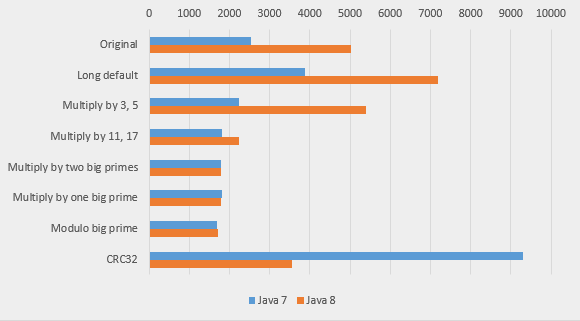
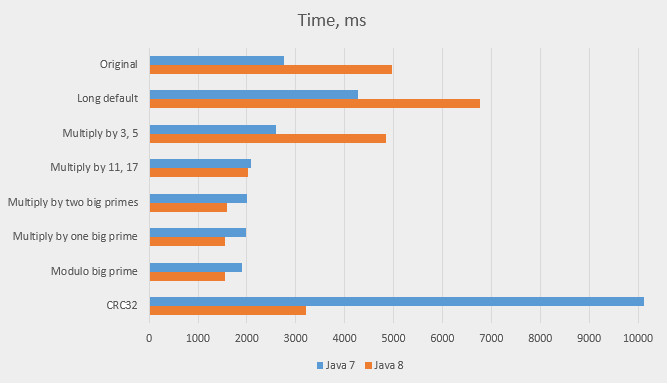
Some measurement results corrected

diff --git a/_posts/2015-04-24-game-of-life-hash-tables-and-hash-codes.md b/_posts/2015-04-24-game-of-life-hash-tables-and-hash-codes.md
@@ -401,7 +401,7 @@ There is also usual correctness check code, which isn't needed now but will be i
 measurement code. We'll run each performance test three times. Here is the run result:
 
     # java -server Life
-      Hash_Reference: time for 10000:  2701  2586  2543: 3932.4 frames/sec
+      Hash_Reference: time for 10000:  2937  2719  2763: 3619.3 frames/sec
 
 How good is it? Interestingly, it is of the same order of magnitude as the 3,200 fps I was talking
 about in the beginning of the article. However, the algorithms are of different nature, so the results aren't directly comparable.
@@ -479,7 +479,7 @@ an offset of `0x80000000` to all co-ordinates. This offset is only applied at in
 affect the main algorithm:
 
 {% highlight Java %}
-public static final int offset = 0x8000000;
+public static final int offset = 0x80000000;
 
 public static int x (long w)
 {
@@ -497,10 +497,11 @@ public static long fromPoint (int x, int y)
 }
 {% endhighlight %}
 
-The rest of the program stays virtually unchanged. Here is the result:
+The rest of the program stays virtually unchanged. We'll run the test alone -- comment out the test for `Point` in `main ()` and leave only
+the new one. This will remove any possible effects one test can have on another. Here is the result:
 
     # java -server Life
-           Hash_Long: time for 10000:  3910  3901  3887: 2572.7 frames/sec
+           Hash_Long: time for 10000:  4290  4237  4273: 2340.3 frames/sec
 
 What a surprise! The performance got worse. What went wrong? It seems very unlikely that operations with `long`,
 even boxed as `Long`, are slower than with our `Point` class. The general structure of the program is the same. What is the difference?
@@ -578,11 +579,11 @@ fact, the hash value will be exactly the same: 0x80000000 multiplied by 3 (or 5)
 and the two added together will cancel each other out.
 
 Since there is no more boxing, the code is a little bit longer, but it is also clearer and safer -- arbitrary number
-can't be passed as a point any more. Here is the result (I'll quote all three):
+can't be passed as a point any more. Again, I'll run it alone. Here is the result (I'll quote all three):
 
-      Hash_Reference: time for 10000:  2701  2586  2543: 3932.4 frames/sec
-           Hash_Long: time for 10000:  3910  3901  3887: 2572.7 frames/sec
-      Hash_LongPoint: time for 10000:  2340  2254  2243: 4458.3 frames/sec
+      Hash_Reference: time for 10000:  2937  2719  2763: 3619.3 frames/sec
+           Hash_Long: time for 10000:  4290  4237  4273: 2340.3 frames/sec
+      Hash_LongPoint: time for 10000:  2864  2651  2602: 3843.2 frames/sec
 
 This proves our theory. The version using `long` with the hash formula from `Point` is much faster than the one with
 the built-in hash function of `Long`. It is also a bit faster than the original `Point`-based version, which proves
@@ -791,9 +792,9 @@ private static void hashtest (Hash h)
     int nonzero_counts = b2.cardinality ();
     double avg_counts = (double) r.counts.size () / nonzero_counts;
 
-    System.out.printf ("Field size: %4d; slots used: %4d; avg=%5.1f\n",
+    System.out.printf ("Field size: %4d; slots used: %4d; avg=%5.2f\n",
                        r.field.size (), nonzero_field, avg_field);
-    System.out.printf ("Count size: %4d; slots used: %4d; avg=%5.1f\n",
+    System.out.printf ("Count size: %4d; slots used: %4d; avg=%5.2f\n",
                        r.counts.size (), nonzero_counts, avg_counts);
 }
 {% endhighlight %}
@@ -858,12 +859,15 @@ How about multiplying the entire `long` by some big enough prime number?
 
 {% highlight Java %}
 hashtest (new Hash () { public int hash (Point p) {
-                          long x = w(p.x, p.y) * 541725397157L;
+                          long x = fromPoint (p.x, p.y) * 541725397157L;
                           return lo(x) ^ hi(x);}} );
 {% endhighlight %}
 
-    Field size: 1034; slots used:  970; avg= 1.07
-    Count size: 3938; slots used: 3096; avg= 1.27
+Note that we can't ignore adding `OFFSET` any more; it affects the value of the hash function. That's why we use `fromPoint (p.x, p.y)`
+and not just `w (p.x, p.y)`:
+
+    Field size: 1034; slots used:  969; avg= 1.07
+    Count size: 3938; slots used: 3144; avg= 1.25
 
 One of the methods Knuth (_The art of computer programming, vol. 3, 6.4_) suggests is dividing by some prime number and getting a remainder.
 We need a number small enough to distribute remainders evenly, but big enough to generate sufficient number of
@@ -871,14 +875,14 @@ these remainders and prevent full hash conflicts.
 
 {% highlight Java %}
 hashtest (new Hash () { public int hash (Point p) {
-                          long x = w (p.x,  p.y);
+                          long x = fromPoint (p.x,  p.y);
                           return (int) (x % 946840871);}} );
 {% endhighlight %}
 
-    Field size: 1034; slots used:  978; avg= 1.06
-    Count size: 3938; slots used: 3201; avg= 1.23
+    Field size: 1034; slots used:  982; avg= 1.05
+    Count size: 3938; slots used: 3236; avg= 1.22
 
-It performs slightly better. However, division is expensive, which may cancel out any speed improvement caused by better hashing.
+It performs even better. However, division is expensive, which may cancel out any speed improvement caused by better hashing.
 
 Knuth also suggested using polynomial binary codes. There is one such code readily available in the **Java** library --
 `CRC32` (in package `java.util.zip`). 
@@ -899,13 +903,13 @@ static int crc_hash (long n)
 }
 
 hashtest (new Hash () { public int hash (Point p) {
-                          return crc_hash (w(p.x, p.y));}} );
+                          return crc_hash (fromPoint (p.x, p.y));}} );
 {% endhighlight %}
 
     Field size: 1034; slots used:  981; avg= 1.05
     Count size: 3938; slots used: 3228; avg= 1.22
 
-We've got some more progress. However, 1.22 still seems a bit high. We want 1.0! Is `CRC32` still not shuffling bits well?
+It also looks very good. However, 1.22 still seems a bit high. We want 1.0! Is `CRC32` still not shuffling bits well?
 Let's try the ultimate test: random numbers. Obviously, we're not planning of using them as real hash values, we'll
 just measure the number of used slots and the average chain size:
 
@@ -923,8 +927,8 @@ In fact, this is exactly what we'd expect from random numbers. Truly random sele
 occupied slot with the same probability as any other slot. The hash function must be rather _non-random_ to spread
 all the values over different slots. Let's look at probabilities.
 
-Some calculations
------------------
+Some high school mathematics
+----------------------------
 
 Let's define two random variables. Let <i>Num<sub>k</sub></i> be the number of non-empty slots in the table
 after _k_ insertions, and <i>Len<sub>k</sub></i> be the average chain size.
@@ -1106,7 +1110,8 @@ our formula is good enough to compute distributions and standard deviations:
 The values for <i>E[Num]</i> are the same as those computed before, which inspires confidence in our results.
 
 Let's have a look how far the values measured for various hash functions are from the expected values.
-Here are the data for the `field` structure (element count 1,034) collected in a table. The last column shows the distance, in sigmas, from
+Here are the data for the `field` structure (element count 1,034) collected in a table. The last column shows the distance,
+in sigmas (&sigma;&nbsp;=&nbsp;7.27) from
 the expected value (E[Num]&nbsp;=&nbsp;971.46):
 
 <table class="numeric">
@@ -1115,8 +1120,8 @@ the expected value (E[Num]&nbsp;=&nbsp;971.46):
 <tr><td class="label">2</td><td class="ttext">Multiply by 3, 5           </td><td>595</td><td>-376.46</td><td> -51.78</td></tr>
 <tr><td class="label">3</td><td class="ttext">Multiply by 11, 17         </td><td>885</td><td> -86.46</td><td> -11.89</td></tr>
 <tr><td class="label">4</td><td class="ttext">Multiply by two big primes </td><td>972</td><td>  +0.54</td><td>  +0.07</td></tr>
-<tr><td class="label">5</td><td class="ttext">Multiply by one big prime  </td><td>970</td><td>  -1.46</td><td>  -0.20</td></tr>
-<tr><td class="label">6</td><td class="ttext">Modulo big prime           </td><td>978</td><td>  +6.54</td><td>  +0.90</td></tr>
+<tr><td class="label">5</td><td class="ttext">Multiply by one big prime  </td><td>969</td><td>  -2.46</td><td>  -0.38</td></tr>
+<tr><td class="label">6</td><td class="ttext">Modulo big prime           </td><td>982</td><td> +10.54</td><td>  +1.45</td></tr>
 <tr><td class="label">7</td><td class="ttext">CRC32                      </td><td>981</td><td>  +9.54</td><td>  +1.31</td></tr>
 <tr><td class="label">8</td><td class="ttext">Random                     </td><td>968</td><td>  -3.46</td><td>  -0.48</td></tr>
 </table>
@@ -1130,7 +1135,7 @@ The solid vertical line shows the expected value; the thin vertical lines indica
 from it in both directions. Red dots correspond to the values from the table above (some were so far away though that they didn't fit
 into the picture).
 
-Here are the results for the `counts` structure (element count 3938, E&nbsp;[Num]&nbsp;=&nbsp;3126.69), first as a table:
+Here are the results for the `counts` structure (element count 3938, E&nbsp;[Num]&nbsp;=&nbsp;3126.69, &sigma;&nbsp;[Num]&nbsp;=&nbsp;20.68), first as a table:
 
 <table class="numeric">
 <tr><th>Label<th>Hash</th><th>Num</th><th>Num&minus;E</th><th>(Num&minus;E)/&sigma;</th></tr>
@@ -1138,8 +1143,8 @@ Here are the results for the `counts` structure (element count 3938, E&nbsp;[Num
 <tr><td class="label">2</td><td class="ttext">Multiply by 3, 5                  </td><td>1108</td><td>-2018.69</td><td>  -97.57</td></tr>
 <tr><td class="label">3</td><td class="ttext">Multiply by 11, 17                </td><td>2252</td><td> -901.69</td><td>  -43.58</td></tr>
 <tr><td class="label">4</td><td class="ttext">Multiply by two big primes        </td><td>3099</td><td>  -27.69</td><td>   -1.34</td></tr>
-<tr><td class="label">5</td><td class="ttext">Multiply by one big prime         </td><td>3096</td><td>  -30.69</td><td>   -1.48</td></tr>
-<tr><td class="label">6</td><td class="ttext">Modulo big prime                  </td><td>3201</td><td>  +74.31</td><td>   +3.59</td></tr>
+<tr><td class="label">5</td><td class="ttext">Multiply by one big prime         </td><td>3144</td><td>  +17.31</td><td>   +0.84</td></tr>
+<tr><td class="label">6</td><td class="ttext">Modulo big prime                  </td><td>3236</td><td> +109.31</td><td>   +5.29</td></tr>
 <tr><td class="label">7</td><td class="ttext">CRC32                             </td><td>3228</td><td> +101.31</td><td>   +4.90</td></tr>
 <tr><td class="label">8</td><td class="ttext">Random                            </td><td>3151</td><td>  +24.31</td><td>   +1.17</td></tr>
 </table>
@@ -1161,10 +1166,13 @@ We can see that the random number test gave &minus;0.48&sigma; in one case and 1
 such variations are quite achievable by chance.
 
 There are, however, two interesting cases, both for `counts`, where "modulo big prime" and `CRC32` produced exceptionally
-good results, both differing from the mean value by over 3&sigma; positively. The point for `CRC32` (number `7`)
-didn't even fit into the graph, so far to the right it is positioned. Why this happens and whether it means that
+good results, both differing from the mean value by over 3&sigma; positively. These points
+didn't even fit into the graph, so far to the right they were positioned. Why this happens and whether it means that
 these two hash functions are better then the others for any Life simulation, I don't know. Perhaps
 some mathematically inclined reader can answer this.
+
+These statistics are applicable to **Java 7**, because the results of hash functions are shuffled the way **Java 7** does it.
+However, the results without shuffling are similar.
 
 Note on the test data
 ---------------------
@@ -1183,30 +1191,30 @@ Which one is the best, depends on their own speed -- a well-hashing, but slow fu
 Let's measure. We'll create several versions of the `LongPoint` class, their names ending with labels from the table above.
 We'll also make special versions of `Hash_LongPoint`, using those `LongPoint`s. We'll run the tests on both **Java 7** and **Java 8**.
 
-Various versions of `LongPoint` only differ in hash function, and in theory could be implemented as classes derived
+Various versions of `LongPoint` only differ in hash function, and could be implemented as classes derived
 from `LongPoint`. However, the amount of re-used code will be very small, hardly worth the effort.
 Various versions of `Hash_LongPoint` only differ in the versions of `LongPoint` they use. They could
 have been implemented as one generic class if they didn't need to instantiate `LongPoint` objects. We could work that around
 by introducing factory classes, but this would complicate our code and hardly improve performance. This is where **C++**
 templates once again would have worked better than **Java** generics (I haven't yet found examples of the opposite).
 
-Here are the results as a table:
+Here are the results as a table (again, each test was executed on its own):
 
 <table class="numeric">
 <tr><th>Label<th>Hash</th><th>Time, <b>Java 7</b></th><th>Time, <b>Java 8</b></th></tr>
-<tr><td class="label">Ref</td><td class="ttext">Multiply by 3, 5                </td><td>2543</td><td>5020</td></tr>
-<tr><td class="label">1</td><td class="ttext"><b>Long</b> default               </td><td>3887</td><td>7195</td></tr>
-<tr><td class="label">2</td><td class="ttext">Multiply by 3, 5                  </td><td>2243</td><td>5384</td></tr>
-<tr><td class="label">3</td><td class="ttext">Multiply by 11, 17                </td><td>1819</td><td>2238</td></tr>
-<tr><td class="label">4</td><td class="ttext">Multiply by two big primes        </td><td>1788</td><td>1796</td></tr>
-<tr><td class="label">5</td><td class="ttext">Multiply by one big prime         </td><td>1818</td><td>1793</td></tr>
-<tr><td class="label">6</td><td class="ttext">Modulo big prime                  </td><td>1701</td><td>1705</td></tr>
-<tr><td class="label">7</td><td class="ttext">CRC32                             </td><td>9294</td><td>3550</td></tr>
+<tr><td class="label">Ref</td><td class="ttext">Multiply by 3, 5                </td><td>2763</td><td>4961</td></tr>
+<tr><td class="label">1</td><td class="ttext"><b>Long</b> default               </td><td>4273</td><td>6755</td></tr>
+<tr><td class="label">2</td><td class="ttext">Multiply by 3, 5                  </td><td>2602</td><td>4836</td></tr>
+<tr><td class="label">3</td><td class="ttext">Multiply by 11, 17                </td><td>2074</td><td>2028</td></tr>
+<tr><td class="label">4</td><td class="ttext">Multiply by two big primes        </td><td>2000</td><td>1585</td></tr>
+<tr><td class="label">5</td><td class="ttext">Multiply by one big prime         </td><td>1979</td><td>1553</td></tr>
+<tr><td class="label">6</td><td class="ttext">Modulo big prime                  </td><td>1890</td><td>1550</td></tr>
+<tr><td class="label">7</td><td class="ttext">CRC32                             </td><td>10115</td><td>3206</td></tr>
 </table>
 
 And as a graph:
 
-<img src="{{ site.url }}/images/life-results.png" width="580" height="321">
+<img src="{{ site.url }}/images/life-results.png" width="667" height="383">
 
 Immediate observations:
 
@@ -1237,13 +1245,13 @@ Just out of curiosity I've added some counters to our program and got statistics
 
 <table class="numeric">
 <tr><th>Operation</th><th><code>field</code></th><th><code>counts</code></th></tr>
-<tr><td class="ttext"><code>put()</code>, new      </td><td>1292359</td><td> 2481224</td></tr>
-<tr><td class="ttext"><code>put()</code>, update   </td><td>      0</td><td>15713009</td></tr>
-<tr><td class="ttext"><code>get()</code>, success  </td><td>1708139</td><td>48514853</td></tr>
-<tr><td class="ttext"><code>get()</code>, fail     </td><td>1292359</td><td> 2497339</td></tr>
-<tr><td class="ttext"><code>remove()</code>        </td><td>1291733</td><td> 2478503</td></tr>
-<tr><td class="ttext">All operations               </td><td>5584590</td><td> 71684928</td></tr>
-<tr><td class="ttext"><code>hashCode()</code>      </td><td colspan="2">77269518</td></tr>
+<tr><td class="ttext"><code>put()</code>, new      </td><td>1,292,359</td><td>  2,481,224</td></tr>
+<tr><td class="ttext"><code>put()</code>, update   </td><td>        0</td><td> 15,713,009</td></tr>
+<tr><td class="ttext"><code>get()</code>, success  </td><td>1,708,139</td><td> 48,514,853</td></tr>
+<tr><td class="ttext"><code>get()</code>, fail     </td><td>1,292,359</td><td>  2,497,339</td></tr>
+<tr><td class="ttext"><code>remove()</code>        </td><td>1,291,733</td><td>  2,478,503</td></tr>
+<tr><td class="ttext">All operations               </td><td>5,584,590</td><td> 71,684,928</td></tr>
+<tr><td class="ttext"><code>hashCode()</code>      </td><td colspan="2">77,269,518</td></tr>
 </table>
 
 The data is collected on a single test run, 10,000 iterations, beginning with ACORN.
@@ -1254,7 +1262,8 @@ the main bottleneck of the program.
 
 In addition, the number of `equals()` calls on `Point` object is 160,526,879, or roughly two per `hashCode()` call,
 for the reference implementation, and 36,383,032 (0.47 per `hashCode()`) for "Modulo big prime". This is a direct
-consequence of the latter version using much better hash function.
+consequence of the latter version using much better hash function. The reason the number of `equals()` invocations
+per `hashCode()` is less than one is in unsuccessful `get()` calls, which are very frequent in Life.
 
 We can also see that much more operations are performed on `counts` than on `field`, which is to be expected (eight
 lookups and updates are performed for each modification of `fields`). Any improvement there
@@ -1290,12 +1299,12 @@ Conclusions
 - There is always a trade-off between quality and speed of hash functions. Sometimes a very good hash function may turn
   out to be too slow.
 
-- Time to run the test went down by 33% for **Java 7** and 66% for **Java 8**, compared with the original version
+- Time to run the test went down by 32% for **Java 7** and 69% for **Java 8**, compared with the original version
   (much more if compared with the first `long`-based version). Not bad, considering that we didn't change the algorithm
   or the data structure -- only the hash function.
 
-- The achieved number of iterations per second was 5,344 (it was 3,932 when we started). Let's set a goal of 10,000 and
-see if this is achievable on the same computer.
+- The achieved number of iterations per second was 6,451 (it was 3,619 when we started). Let's set a goal of 10,000 and
+  see if this is achievable on the same computer.
 
 Coming soon
 -----------
